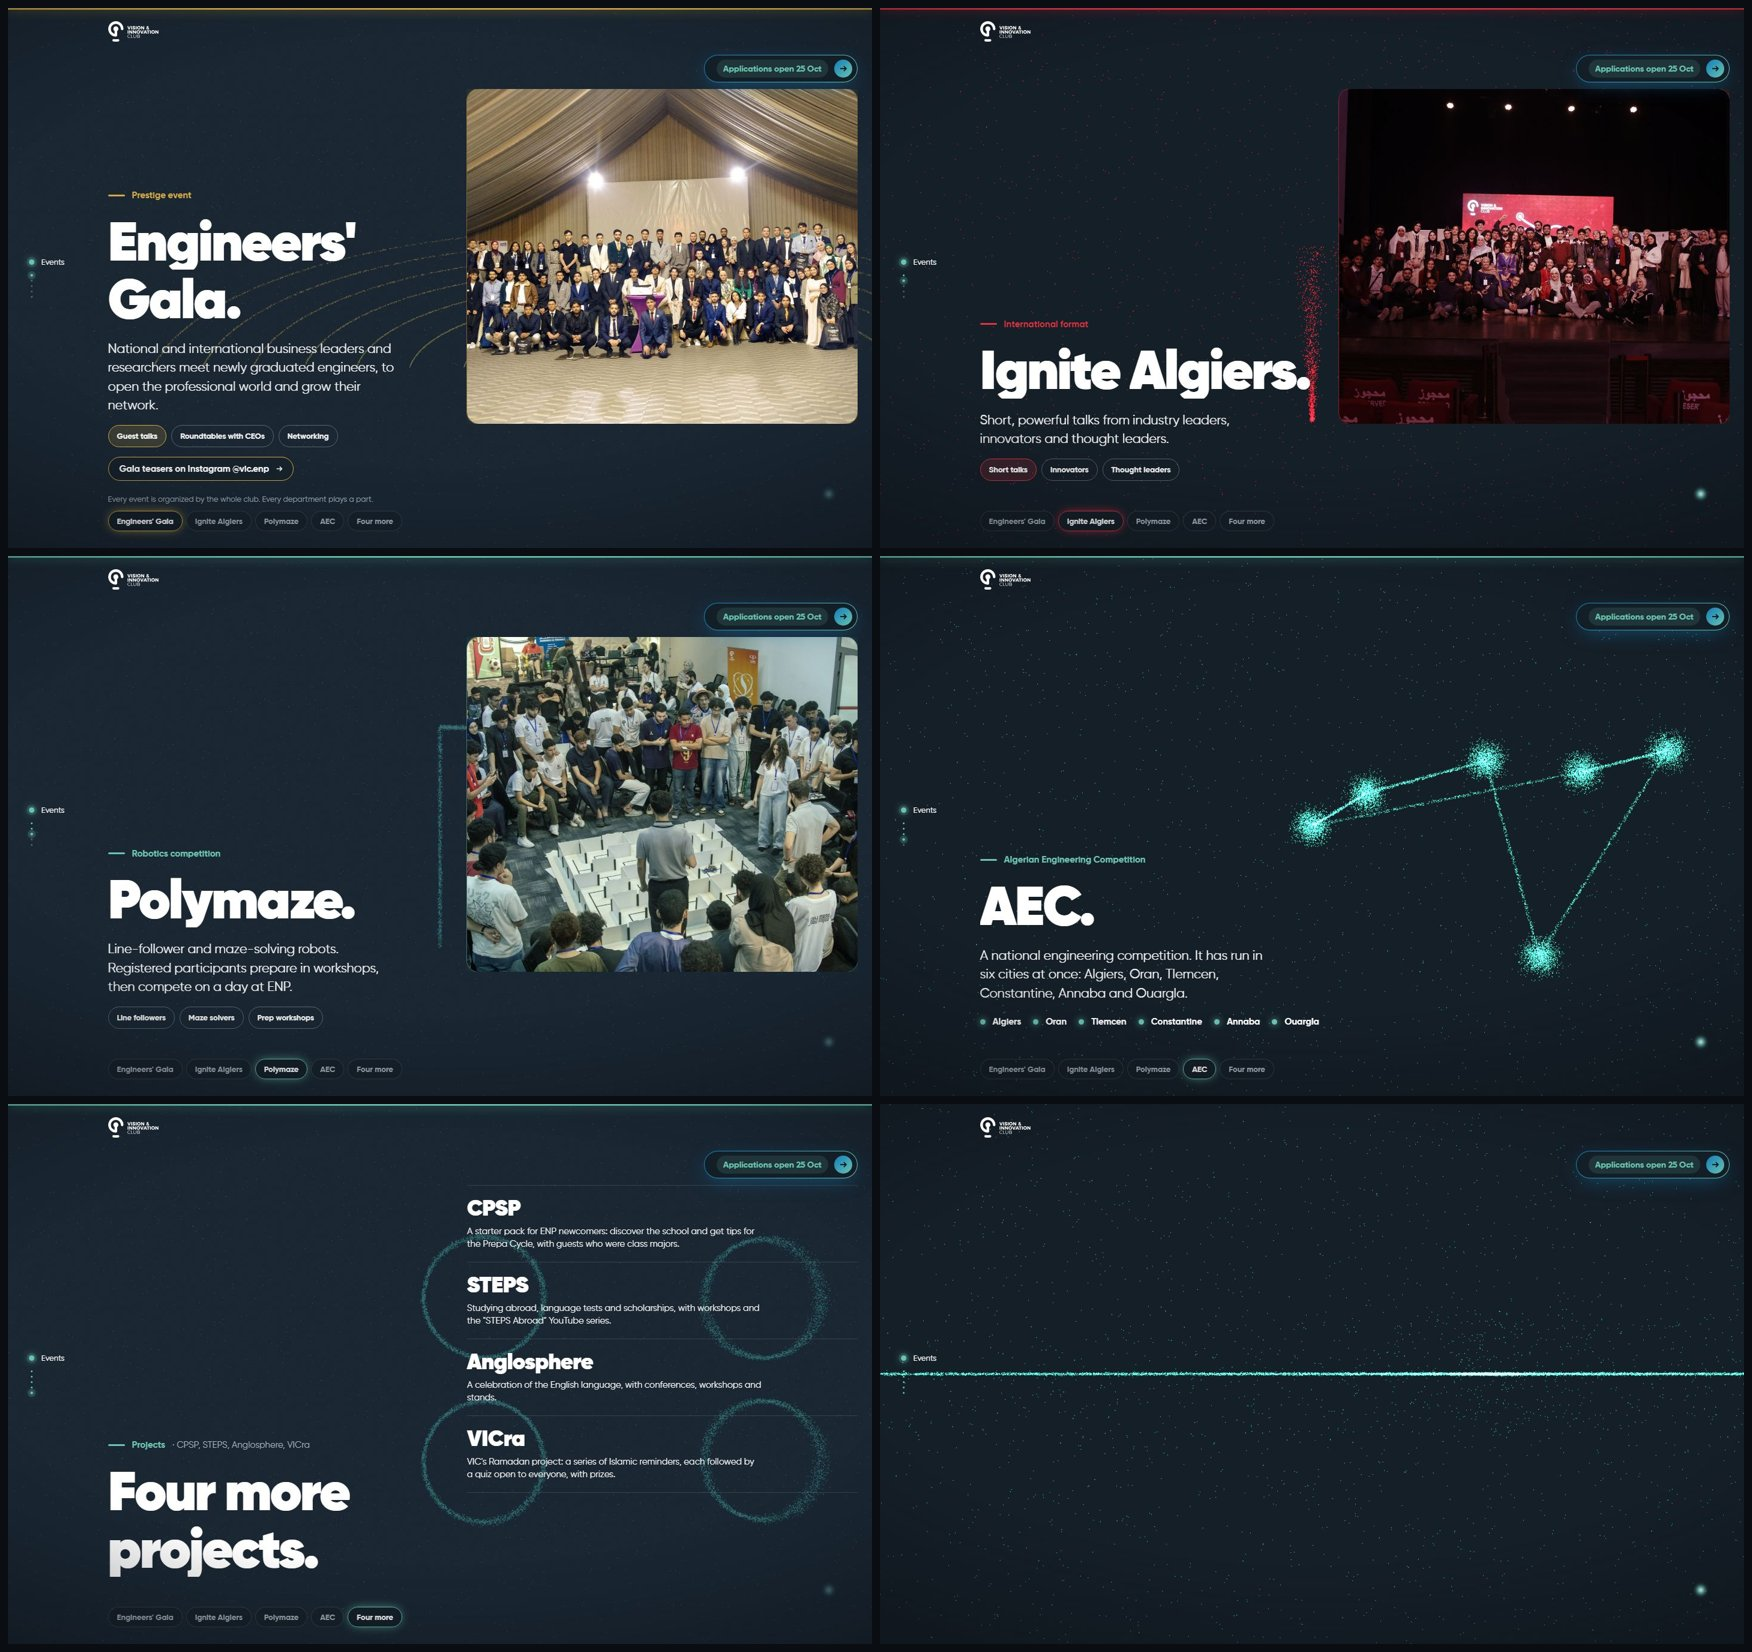
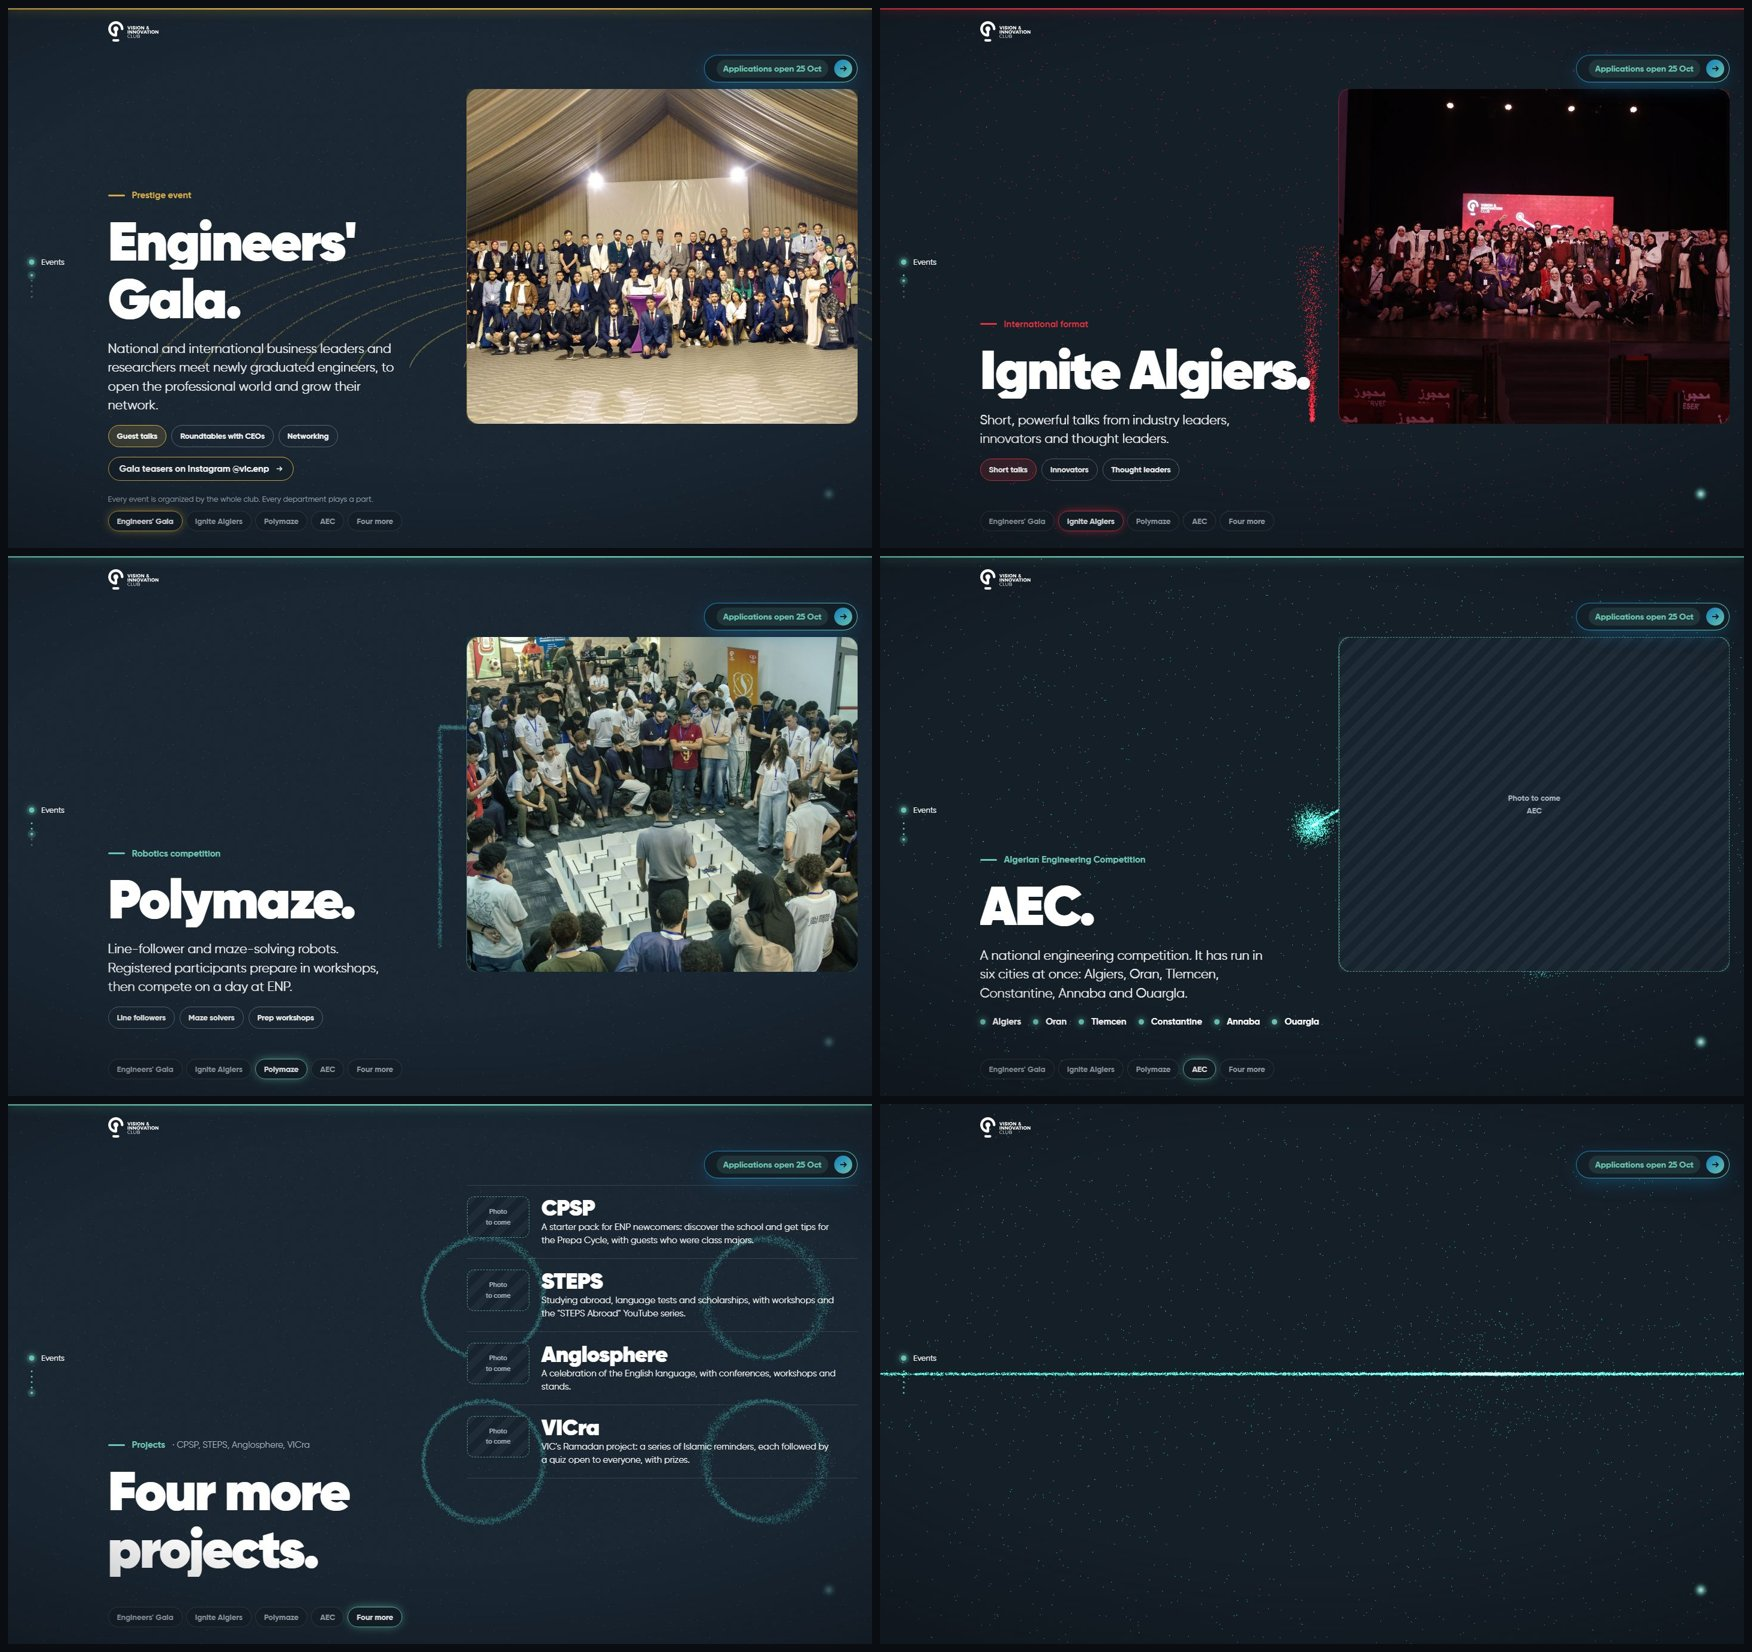
Comp #15 round 3: photo placeholders for AEC and the four projects

Changed region(s): [[0.2466, 0.71, 0.4623, 0.8953], [0.7397, 0.4322, 0.9863, 0.5248], [0.863, 0.5557, 0.8938, 0.5866]]

diff --git a/prototype/act-events/index.html b/prototype/act-events/index.html
@@ -94,6 +94,12 @@ button{font:inherit;color:inherit;background:none;border:0;cursor:pointer}
 .rows div:last-child{border-bottom:1px solid var(--line)}
 .rows b{font-weight:900;font-size:clamp(26px,2.6vw,40px);letter-spacing:-.02em;color:#fff;line-height:1}
 .rows p{margin-top:8px;font-size:15px;line-height:1.45;color:var(--gray);max-width:52ch}
+/* placeholders for photos still to come: same frame, radius and tint as a real photo */
+.slot{display:grid;place-items:center;text-align:center;background:repeating-linear-gradient(135deg,rgba(239,239,239,.04) 0 12px,transparent 12px 24px),#16222d;border:1.5px dashed color-mix(in srgb,var(--c) 70%,transparent);color:var(--mute);font-size:var(--t-cap);font-weight:700;border-radius:var(--radius);overflow:hidden}
+.ph.slot::after{display:none}
+.rows div{display:grid;grid-template-columns:104px 1fr;gap:4px 20px;align-items:start}
+.rows .slot{grid-row:1/3;width:104px;aspect-ratio:3/2;border-radius:12px;font-size:11px}
+.rows b{grid-column:2}.rows p{grid-column:2;margin-top:0}
 /* the pan streak on every cut */
 .streak{position:fixed;top:0;bottom:0;left:0;width:22vw;z-index:5;pointer-events:none;opacity:0;background:linear-gradient(90deg,transparent,var(--sc,#69C4AF) 70%,#fff);mix-blend-mode:screen}
 .streak.go{animation:streak .3s cubic-bezier(.5,0,.2,1) 1}
@@ -121,7 +127,7 @@ html.t0 .ph{aspect-ratio:3/2}
 html.t0 .ph img,html.t0 .cut.on .ph,html.t0 .cut.on .ph img{animation:none}
 html.t0 .big{font-size:clamp(30px,3vw,44px);line-height:1}
 html.t0 .big .w>span{transform:none!important;transition:none!important}
-html.t0 .cut.span2{grid-column:1/-1}
+html.t0 .rows div{grid-template-columns:104px 1fr}html.t0 .cut.span2{grid-column:1/-1}
 html.t0 .cities{display:flex;flex-wrap:wrap;gap:8px 18px;font-size:15px}
 
 /* reduced motion with WebGL: the cuts stack, nothing pins, nothing pans */
@@ -148,7 +154,7 @@ html.stack .streak{display:none}
   .pick button{height:30px;padding:0 10px}
   .note{display:none}
     .rows{left:var(--gut);right:20px;top:84px;width:auto}
-  .rows div{padding:9px 0}.rows b{font-size:22px}.rows p{font-size:13px;margin-top:3px}
+  .rows div{padding:9px 0;grid-template-columns:64px 1fr;gap:2px 12px}.rows .slot{width:64px;border-radius:10px;font-size:9px}.rows div{padding:9px 0}.rows b{font-size:22px}.rows p{font-size:13px;margin-top:3px}
   html.t0 #act{padding-left:20px}html.t0 .grid{grid-template-columns:minmax(0,1fr)}html.t0 .logo{left:20px}
   html.t0 .ph{height:auto;left:auto;top:auto}
 }
@@ -201,7 +207,8 @@ html.stack .streak{display:none}
       <div class="chips"><span>Line followers</span><span>Maze solvers</span><span>Prep workshops</span></div>
     </div>
   </article>
-  <article class="cut" data-f="aec" data-c="#69C4AF" data-n="AEC" style="--c:#69C4AF">
+  <article class="cut photo" data-f="aec" data-c="#69C4AF" data-n="AEC" style="--c:#69C4AF">
+    <div class="ph slot" role="img" aria-label="Photo of AEC to come">Photo to come<br>AEC</div>
     <div class="txt">
       <p class="lbl">Algerian Engineering Competition</p>
       <h3 class="big">AEC.</h3>
@@ -211,10 +218,10 @@ html.stack .streak{display:none}
   </article>
   <article class="cut span2" data-f="more" data-c="#69C4AF" data-n="Four more" style="--c:#69C4AF">
     <div class="rows">
-      <div><b>CPSP</b><p>A starter pack for ENP newcomers: discover the school and get tips for the Prepa Cycle, with guests who were class majors.</p></div>
-      <div><b>STEPS</b><p>Studying abroad, language tests and scholarships, with workshops and the "STEPS Abroad" YouTube series.</p></div>
-      <div><b>Anglosphere</b><p>A celebration of the English language, with conferences, workshops and stands.</p></div>
-      <div><b>VICra</b><p>VIC's Ramadan project: a series of Islamic reminders, each followed by a quiz open to everyone, with prizes.</p></div>
+      <div><span class="slot" role="img" aria-label="Photo of CPSP to come">Photo<br>to come</span><b>CPSP</b><p>A starter pack for ENP newcomers: discover the school and get tips for the Prepa Cycle, with guests who were class majors.</p></div>
+      <div><span class="slot" role="img" aria-label="Photo of STEPS to come">Photo<br>to come</span><b>STEPS</b><p>Studying abroad, language tests and scholarships, with workshops and the "STEPS Abroad" YouTube series.</p></div>
+      <div><span class="slot" role="img" aria-label="Photo of Anglosphere to come">Photo<br>to come</span><b>Anglosphere</b><p>A celebration of the English language, with conferences, workshops and stands.</p></div>
+      <div><span class="slot" role="img" aria-label="Photo of VICra to come">Photo<br>to come</span><b>VICra</b><p>VIC's Ramadan project: a series of Islamic reminders, each followed by a quiz open to everyone, with prizes.</p></div>
     </div>
     <div class="txt">
       <p class="lbl">Projects <em>· CPSP, STEPS, Anglosphere, VICra</em></p>

diff --git a/prototype/act-events/README.md b/prototype/act-events/README.md
@@ -13,4 +13,4 @@ Open `http://127.0.0.1:8793/index.html`. Copy `Gilroy-{Regular,Bold,Heavy}.woff2
 ## Shots
 
 `shots/step0..5-<d|m>.jpg`: Gala, Ignite, Polymaze, AEC, four more, horizon (`d` 1440x900, `m` 390x844). `sheet-d/m.jpg` all seven, `cuts-scroll-d/m.gif` a scroll capture across Gala, Ignite and Polymaze, `stack-full-*` reduced motion, `t0-full-*` tier 0.
-Event colours (gold `#D4A843`, red `#E0313F`, blue `#2F80ED`) are picked by eye, not from posters (none in the repo): open question 12 for the owner. Headless Chrome for Testing (playwright-chrome), software WebGL: frame rate on a phone is not checked.
+Photo slots (AEC and the four projects) are dashed placeholders for pictures the owner will add. Event colours (gold `#D4A843`, red `#E0313F`, blue `#2F80ED`) are picked by eye, not from posters (none in the repo): open question 12 for the owner. Headless Chrome for Testing (playwright-chrome), software WebGL: frame rate on a phone is not checked.
